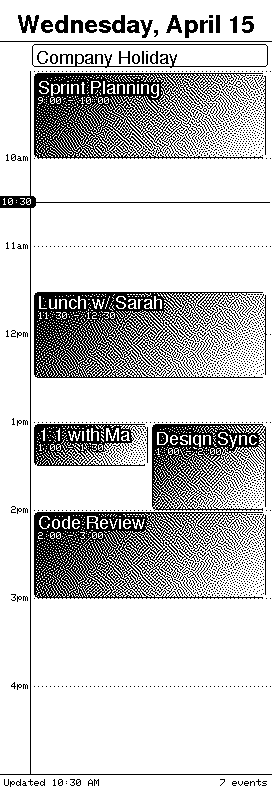
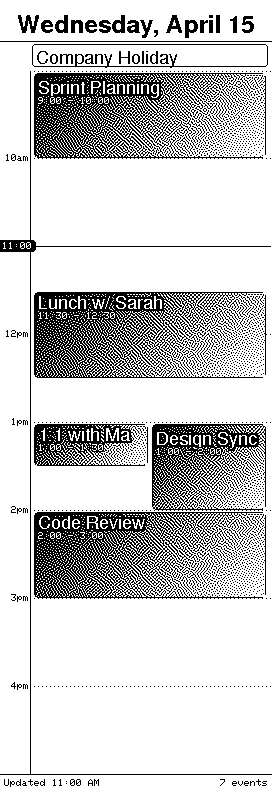
Refactor drawNowIndicator to clear background behind the pill indicator and remove redundant hour label redraw logic

Changed region(s): [[0.0, 0.303, 0.1471, 0.3333], [0.0, 0.2424, 0.1471, 0.2727]]

diff --git a/simulator/sim_main.cpp b/simulator/sim_main.cpp
@@ -443,6 +443,9 @@ void drawNowIndicator()
   int pillY = y - pillH / 2;
   int pillR = 3;
 
+  // Clear gutter area behind the pill to cover hour labels
+  canvas.fillRect(0, pillY, LABEL_W, pillH, GxEPD_WHITE);
+
   // Draw horizontal line across the timeline area
   canvas.drawFastHLine(LABEL_W, y, SCREEN_W - LABEL_W - 2, GxEPD_BLACK);
 
@@ -451,33 +454,6 @@ void drawNowIndicator()
   canvas.setTextColor(GxEPD_WHITE);
   canvas.setCursor(pillX + pillPad, pillY + 2);
   canvas.print(timeBuf);
-
-  // Redraw any hour labels that overlap the pill in white (inverted)
-  for (int h = HOUR_START + 1; h < HOUR_END; h++) {
-    int hy = timeToY(h, 0);
-    int labelTop = hy - 4;
-    int labelBot = hy + 4;
-    int pillTop  = pillY;
-    int pillBot  = pillY + pillH;
-
-    if (labelBot <= pillTop || labelTop >= pillBot) continue;
-
-    char label[6];
-    if (h == 12) {
-      strcpy(label, "12pm");
-    } else if (h < 12) {
-      sprintf(label, "%dam", h);
-    } else {
-      sprintf(label, "%dpm", h - 12);
-    }
-
-    int ltw = strlen(label) * 6;
-    int lx = LABEL_W - ltw - 1;
-    int ly = hy - 4;
-    canvas.setTextColor(GxEPD_WHITE);
-    canvas.setCursor(lx, ly);
-    canvas.print(label);
-  }
 
   canvas.setTextColor(GxEPD_BLACK);
 }

diff --git a/src/main.cpp b/src/main.cpp
@@ -763,6 +763,9 @@ void drawNowIndicator()
   int pillY = y - pillH / 2;
   int pillR = 3;
 
+  // Clear gutter area behind the pill to cover hour labels
+  display.fillRect(0, pillY, LABEL_W, pillH, GxEPD_WHITE);
+
   // Draw horizontal line across the timeline area
   display.drawFastHLine(LABEL_W, y, SCREEN_W - LABEL_W - 2, GxEPD_BLACK);
 
@@ -771,33 +774,6 @@ void drawNowIndicator()
   display.setTextColor(GxEPD_WHITE);
   display.setCursor(pillX + pillPad, pillY + 2);
   display.print(timeBuf);
-
-  // Redraw any hour labels that overlap the pill in white (inverted)
-  for (int h = HOUR_START + 1; h < HOUR_END; h++) {
-    int hy = timeToY(h, 0);
-    int labelTop = hy - 4;
-    int labelBot = hy + 4;
-    int pillTop  = pillY;
-    int pillBot  = pillY + pillH;
-
-    if (labelBot <= pillTop || labelTop >= pillBot) continue;
-
-    char label[6];
-    if (h == 12) {
-      strcpy(label, "12pm");
-    } else if (h < 12) {
-      sprintf(label, "%dam", h);
-    } else {
-      sprintf(label, "%dpm", h - 12);
-    }
-
-    int ltw = strlen(label) * 6;
-    int lx = LABEL_W - ltw - 1;
-    int ly = hy - 4;
-    display.setTextColor(GxEPD_WHITE);
-    display.setCursor(lx, ly);
-    display.print(label);
-  }
 
   display.setTextColor(GxEPD_BLACK);
 }